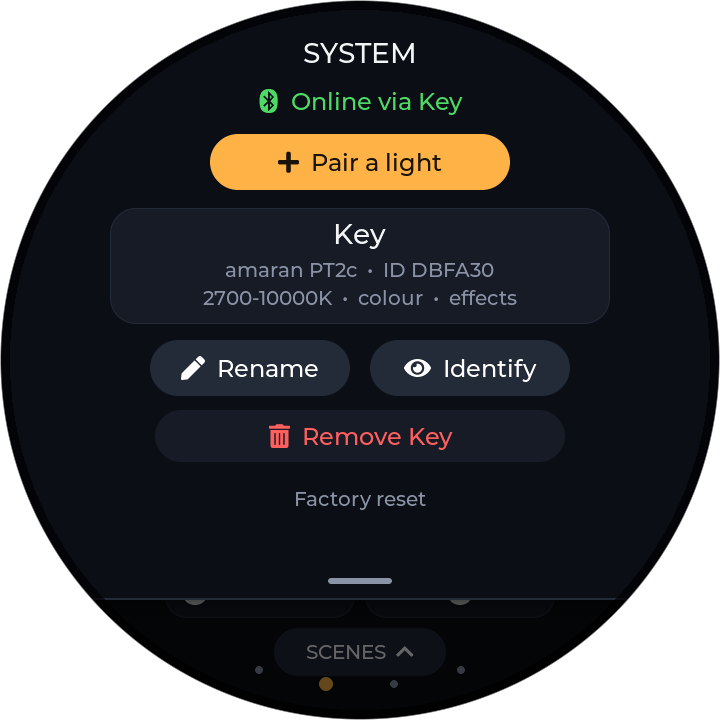
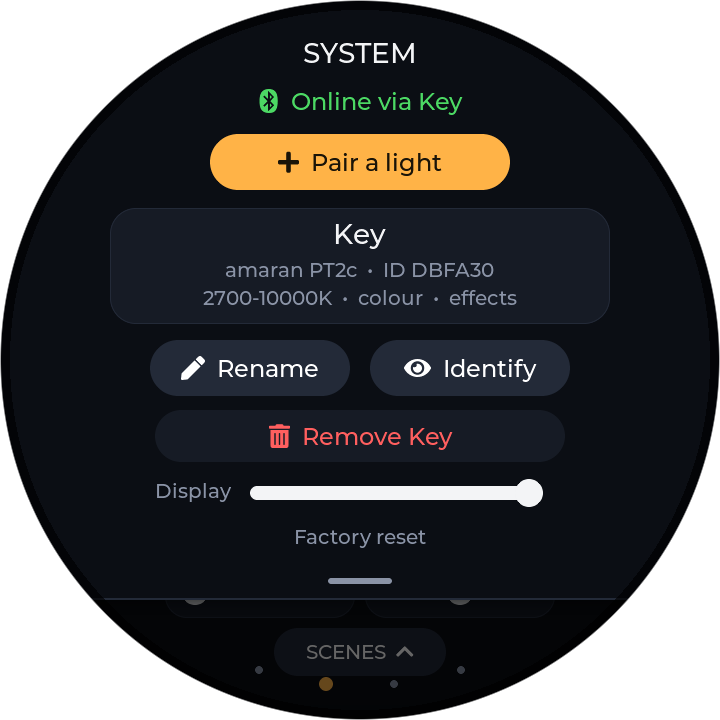
Display brightness and idle dimming
The backlight dims to 8 % after two minutes without a touch; the waking
touch is swallowed by a transparent shield so it cannot toggle a light in
the dark.  A Display slider in the system sheet sets the brightness
(10-100 %, saved in NVS through the new app_core setting helpers).

Changed region(s): [[0.2139, 0.6722, 0.7639, 0.7028], [0.3972, 0.7333, 0.5806, 0.7639]]

diff --git a/main/ui/ui_system.c b/main/ui/ui_system.c
@@ -24,6 +24,7 @@ static lv_obj_t *s_btn_remove;
 static lv_obj_t *s_btn_reset;
 static lv_obj_t *s_title;
 static lv_obj_t *s_diag_status;
+static lv_obj_t *s_bl_slider;
 static bool      s_open;
 
 /* shared rename screen (lights and scenes) */
@@ -259,6 +260,12 @@ static void on_diag(lv_event_t *e)
 
 static void on_close(lv_event_t *e) { (void)e; ui_system_set_open(false, true); }
 
+static void on_backlight(lv_event_t *e)
+{
+    bool release = lv_event_get_code(e) == LV_EVENT_RELEASED;
+    ui_set_backlight_level((int)lv_slider_get_value(s_bl_slider), release);
+}
+
 static lv_obj_t *centered_label(lv_obj_t *parent, const lv_font_t *font, lv_color_t col, int w, int y)
 {
     lv_obj_t *l = lv_label_create(parent);
@@ -339,13 +346,31 @@ void ui_system_create(lv_obj_t *screen)
     lv_obj_align(s_btn_remove, LV_ALIGN_TOP_MID, 0, 410);
     lv_obj_add_event_cb(s_btn_remove, on_remove, LV_EVENT_CLICKED, NULL);
 
-    s_btn_reset = centered_label(s_sheet, ui_font_small, ui_col_muted, 220, 478);
+    /* display brightness */
+    lv_obj_t *bl_lbl = lv_label_create(s_sheet);
+    lv_label_set_text(bl_lbl, "Display");
+    lv_obj_set_style_text_font(bl_lbl, ui_font_small, 0);
+    lv_obj_set_style_text_color(bl_lbl, ui_col_muted, 0);
+    lv_obj_set_pos(bl_lbl, UI_CX - 205, 480);
+    s_bl_slider = lv_slider_create(s_sheet);
+    lv_obj_set_size(s_bl_slider, 280, 14);
+    lv_obj_set_pos(s_bl_slider, UI_CX - 110, 486);
+    lv_slider_set_range(s_bl_slider, 10, 100);
+    lv_obj_set_style_bg_color(s_bl_slider, ui_col_track, LV_PART_MAIN);
+    lv_obj_set_style_bg_color(s_bl_slider, ui_col_text, LV_PART_INDICATOR);
+    lv_obj_set_style_bg_color(s_bl_slider, ui_col_text, LV_PART_KNOB);
+    lv_obj_set_style_pad_all(s_bl_slider, 7, LV_PART_KNOB);
+    lv_obj_set_ext_click_area(s_bl_slider, 14);
+    lv_obj_add_event_cb(s_bl_slider, on_backlight, LV_EVENT_VALUE_CHANGED, NULL);
+    lv_obj_add_event_cb(s_bl_slider, on_backlight, LV_EVENT_RELEASED, NULL);
+
+    s_btn_reset = centered_label(s_sheet, ui_font_small, ui_col_muted, 220, 516);
     lv_label_set_text(s_btn_reset, "Factory reset");
     lv_obj_set_style_pad_all(s_btn_reset, 10, 0);
     lv_obj_add_flag(s_btn_reset, LV_OBJ_FLAG_CLICKABLE);
     lv_obj_add_event_cb(s_btn_reset, on_reset, LV_EVENT_CLICKED, NULL);
 
-    s_diag_status = centered_label(s_sheet, ui_font_small, ui_col_warn, 420, 526);
+    s_diag_status = centered_label(s_sheet, ui_font_small, ui_col_warn, 420, 552);
     lv_obj_add_flag(s_diag_status, LV_OBJ_FLAG_HIDDEN);
 
     lv_obj_t *handle = ui_make_handle(s_sheet);
@@ -365,6 +390,8 @@ void ui_system_refresh(void)
     if (st == LINK_ONLINE) col = ui_col_ok;
     else if (st == LINK_SCANNING || st == LINK_CONNECTING || st == LINK_PAIRING) col = ui_col_accent;
     lv_obj_set_style_text_color(s_link_text, col, 0);
+    if (!lv_obj_has_state(s_bl_slider, LV_STATE_PRESSED))
+        lv_slider_set_value(s_bl_slider, ui_backlight_level(), LV_ANIM_OFF);
     lv_label_set_text_fmt(s_link_text, LV_SYMBOL_BLUETOOTH "  %s", app_core_link_text());
 
     light_t l;

diff --git a/main/ui/ui.c b/main/ui/ui.c
@@ -7,6 +7,7 @@
 #include "app_core.h"
 
 #ifndef MESHDECK_HOST_SIM
+#include "board.h"
 #include "esp_log.h"
 #include "esp_lvgl_port.h"
 static const char *TAG = "ui";
@@ -263,6 +264,57 @@ void ui_fade_shadow(lv_obj_t *obj, lv_color_t to, uint32_t ms)
 /* init + navigation                                                          */
 /* ------------------------------------------------------------------------- */
 
+/* ---- display brightness and idle dimming -------------------------------- */
+
+#define DIM_AFTER_MS   120000
+#define DIM_LEVEL      8
+
+static int       s_bl_user = 100;     /* percent, from the system sheet */
+static bool      s_dimmed;
+static lv_obj_t *s_wake_shield;
+
+static void backlight_apply(int pct)
+{
+#ifndef MESHDECK_HOST_SIM
+    board_backlight_set(pct);
+#else
+    (void)pct;
+#endif
+}
+
+static void on_wake(lv_event_t *e)
+{
+    (void)e;
+    /* the touch that wakes the screen does nothing else */
+    lv_obj_add_flag(s_wake_shield, LV_OBJ_FLAG_HIDDEN);
+    s_dimmed = false;
+    backlight_apply(s_bl_user);
+    lv_display_trigger_activity(NULL);
+}
+
+static void idle_timer_cb(lv_timer_t *t)
+{
+    (void)t;
+    uint32_t idle = lv_display_get_inactive_time(NULL);
+    if (!s_dimmed && idle > DIM_AFTER_MS) {
+        s_dimmed = true;
+        backlight_apply(s_bl_user < DIM_LEVEL ? s_bl_user : DIM_LEVEL);
+        lv_obj_remove_flag(s_wake_shield, LV_OBJ_FLAG_HIDDEN);
+        lv_obj_move_foreground(s_wake_shield);
+    }
+}
+
+int ui_backlight_level(void) { return s_bl_user; }
+
+void ui_set_backlight_level(int pct, bool save)
+{
+    if (pct < 10) pct = 10;
+    if (pct > 100) pct = 100;
+    s_bl_user = pct;
+    if (!s_dimmed) backlight_apply(pct);
+    if (save) app_cmd_save_setting("backlight", (uint16_t)pct);
+}
+
 void ui_init(void)
 {
     ui_font_small  = &lv_font_montserrat_20;
@@ -299,6 +351,17 @@ void ui_init(void)
     }
     lv_screen_load(s_desk);
     s_current = SCR_DESK;
+
+    s_wake_shield = lv_obj_create(lv_layer_top());
+    lv_obj_set_size(s_wake_shield, UI_W, UI_H);
+    lv_obj_set_style_bg_opa(s_wake_shield, LV_OPA_TRANSP, 0);
+    lv_obj_set_style_border_width(s_wake_shield, 0, 0);
+    lv_obj_remove_flag(s_wake_shield, LV_OBJ_FLAG_SCROLLABLE);
+    lv_obj_add_flag(s_wake_shield, LV_OBJ_FLAG_HIDDEN);
+    lv_obj_add_event_cb(s_wake_shield, on_wake, LV_EVENT_PRESSED, NULL);
+    s_bl_user = app_core_setting("backlight", 100);
+    ui_set_backlight_level(s_bl_user, false);
+    lv_timer_create(idle_timer_cb, 500, NULL);
     s_ui_ready = true;
     UI_LOGI("ui ready");
 }

diff --git a/main/app_core.c b/main/app_core.c
@@ -59,7 +59,7 @@ typedef enum {
     CMD_REMOVE, CMD_FACTORY_RESET, CMD_RENAME,
     CMD_MASTER, CMD_ALL_POWER, CMD_ALL_CCT,
     CMD_SCENE_SAVE, CMD_SCENE_RECALL, CMD_SCENE_DELETE,
-    CMD_SET_FADE, CMD_DIAG_LIGHTNESS, CMD_FX, CMD_IDENTIFY, CMD_SCENE_RENAME,
+    CMD_SET_FADE, CMD_DIAG_LIGHTNESS, CMD_FX, CMD_IDENTIFY, CMD_SCENE_RENAME, CMD_SETTING,
 } cmd_type_t;
 
 typedef struct {
@@ -322,6 +322,21 @@ void app_cmd_diag_lightness(uint16_t addr, uint16_t lightness, uint8_t trans)
     post_cmd(CMD_DIAG_LIGHTNESS, addr, lightness, trans, 0, false, NULL);
 }
 int      app_core_last_scene(void)                   { return s_last_scene; }
+
+uint16_t app_core_setting(const char *key, uint16_t def)
+{
+    uint16_t v;
+    return store_load_u16(key, &v) == 0 ? v : def;
+}
+
+void app_cmd_save_setting(const char *key, uint16_t value)
+{
+    app_event_t ev = { .kind = EV_CMD };
+    ev.cmd.type = CMD_SETTING;
+    ev.cmd.a = value;
+    snprintf(ev.cmd.name, sizeof(ev.cmd.name), "%s", key);
+    post(&ev);
+}
 
 void app_cmd_scene_rename(int idx, const char *name)
 {
@@ -1606,6 +1621,10 @@ static void on_cmd(const app_event_t *ev)
         schedule_refresh(il->addr);
         break;
     }
+
+    case CMD_SETTING:
+        if (ev->cmd.name[0]) store_save_u16(ev->cmd.name, ev->cmd.a);   /* NVS keys: max 15 chars */
+        break;
 
     case CMD_SCENE_RENAME: {
         scene_t *sc = scenes_get(ev->cmd.c);

diff --git a/main/app_core.h b/main/app_core.h
@@ -90,6 +90,10 @@ void app_cmd_scene_save(int idx);                      /* -1 = new slot; existin
 void app_cmd_scene_recall(int idx);
 void app_cmd_scene_delete(int idx);
 void app_cmd_scene_rename(int idx, const char *name);
+/* Small persisted UI settings (NVS u16; key up to 15 characters).  Reading
+ * is direct, saving goes through the core task. */
+uint16_t app_core_setting(const char *key, uint16_t def);
+void     app_cmd_save_setting(const char *key, uint16_t value);
 int  app_core_last_scene(void);                        /* last recalled scene or -1 */
 void app_cmd_set_fade_ms(uint16_t ms);                 /* scene crossfade time, 0 = snap; persisted */
 uint16_t app_core_fade_ms(void);

diff --git a/main/ui/ui.h b/main/ui/ui.h
@@ -37,6 +37,10 @@ void ui_notify_pair_changed(void);
 void ui_show_desk(void);
 void ui_show_pair(void);
 
+/* display brightness (10..100 %), dimmed automatically after 2 min idle */
+int  ui_backlight_level(void);
+void ui_set_backlight_level(int pct, bool save);
+
 /* ---- theme ---------------------------------------------------------------- */
 extern const lv_font_t *ui_font_small;    /* 20 */
 extern const lv_font_t *ui_font_normal;   /* 24 */

diff --git a/tools/sim/stubs.c b/tools/sim/stubs.c
@@ -175,6 +175,8 @@ void app_cmd_scene_recall(int idx)
     s_last_scene = idx;
     ui_notify_lights_changed();
 }
+uint16_t app_core_setting(const char *key, uint16_t def) { (void)key; return def; }
+void app_cmd_save_setting(const char *key, uint16_t v) { printf("[cmd] setting %s=%u\n", key, v); }
 void app_cmd_scene_rename(int idx, const char *name)
 {
     scene_t *sc = scenes_get(idx);
